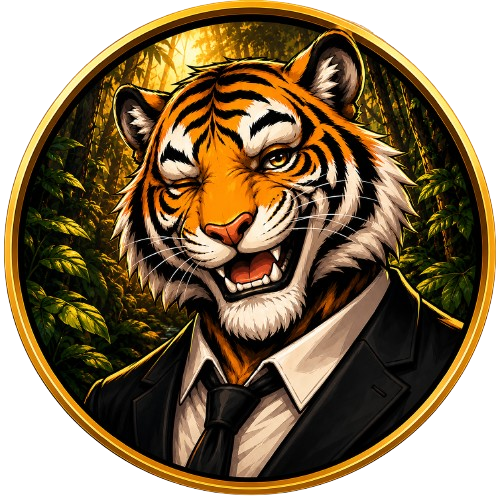
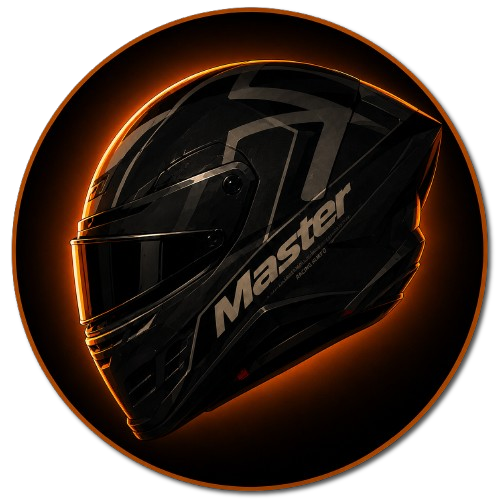
09/07/2026

diff --git a/index.html b/index.html
@@ -3,7 +3,7 @@
 <head>
   <meta charset="UTF-8" />
   <meta name="viewport" content="width=device-width, initial-scale=1.0" />
-  <title>Tigrão das Promoções</title>
+  <title>Master das Promoções</title>
 
   <!-- Fonte -->
   <link rel="preconnect" href="https://fonts.googleapis.com">
@@ -27,7 +27,7 @@
     </p>
 
     <h1 class="logo">
-      TIGRÃO DA PROMO
+      MASTER DA PROMO
     </h1>
 
     <h2 class="main-title">
@@ -46,17 +46,17 @@
         GRUPO NO WHATS
       </a>
 
-      <a href="https://tigraodaspromocoes.vercel.app" class="btn site">
-        <img src="icon.png">
-        SITE DO TIGRÃO
+      <a href="https://tigraodaspromocoes.vercel" class="btn site">
+        <img src="icon.png  ">
+        Conheça Nossa Site
       </a>
 
     </div>
 
     <img
-      class="tigrão"
+      class="Master"
       src="PERSONAGEM.png"
-      alt="Ninja"
+      alt="Master"
     >
 
   </section>

diff --git a/CSS.CSS b/CSS.CSS
@@ -8,7 +8,7 @@
     body{
         font-family: 'Lilita One', cursive;
       min-height:100vh;
-      background: linear-gradient(180deg,#1f190f 0%, #c2ac2f 100%);
+      background: linear-gradient(180deg,#1f190f 0%, #681b94 100%);
       display:flex;
       align-items:center;
       justify-content:center;